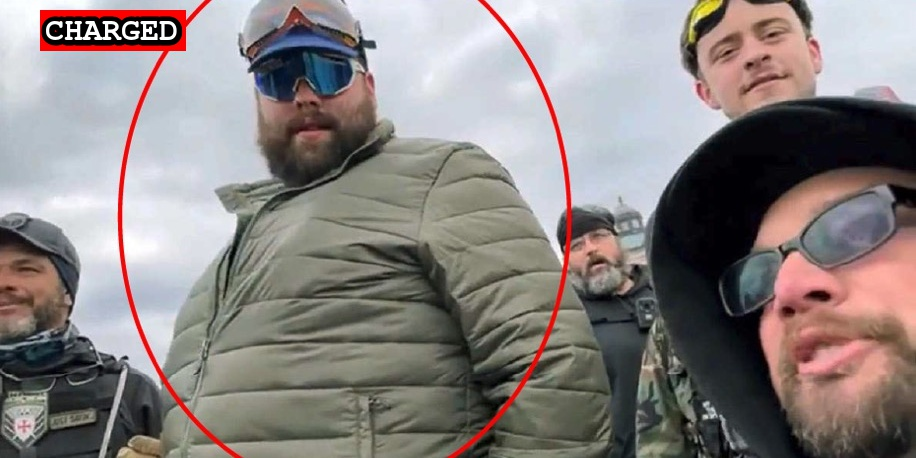
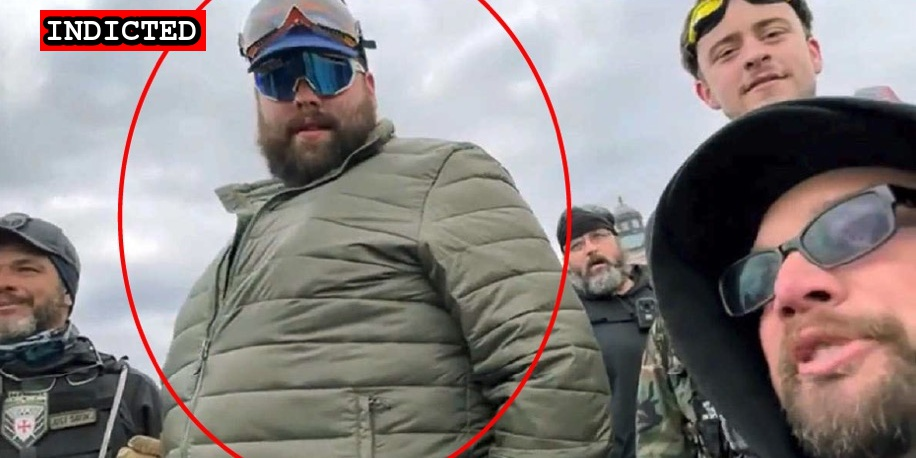
Milkshake indictment

Changed region(s): [[0.0306, 0.0, 0.2445, 0.1223]]

diff --git a/docs/_suspects/daniel-scott.md b/docs/_suspects/daniel-scott.md
@@ -3,13 +3,13 @@ name: Daniel Scott
 lastName: Scott
 aka: Milkshake
 residence: Florida
-status: Charged
+status: Indicted
 date: 2021-05-20
 charged: 2021-05-20
-indicted:
-convicted: 
-sentenced: 
-dismissed: 
+indicted: 2021-05-25
+convicted:
+sentenced:
+dismissed:
 deceased:
 age: 28
 occupation:
@@ -30,5 +30,7 @@ layout: suspect
 published: true
 caseNumber: 1:21-mj-411
 ---
+
 - [News Report](https://www.washingtonpost.com/local/legal-issues/proudboy-screaming-lets-take-capitol-arrested/2021/05/20/ccae5e00-b9a7-11eb-a6b1-81296da0339b_story.html)
 - [Statement of Facts](https://www.justice.gov/usao-dc/case-multi-defendant/file/1395876/download)
+- [Indictment](https://extremism.gwu.edu/sites/g/files/zaxdzs2191/f/Daniel%20Lyons%20Scott%20Indictment.pdf)

diff --git a/docs/_suspects/luke-bender.md b/docs/_suspects/luke-bender.md
@@ -1,0 +1,35 @@
+---
+name: Luke Bender
+lastName: Bender
+aka:
+residence: Virginia
+status: Charged
+date: 2021-07-26
+charged: 2021-07-26
+indicted:
+convicted:
+sentenced:
+dismissed:
+deceased:
+age:
+occupation:
+affiliations:
+jurisdiction: Federal
+image: /images/preview/luke-bender.jpg
+suspect: luke-bender.jpg
+booking:
+courtroom:
+courthouse:
+raid:
+perpwalk:
+quote:
+title: Luke Bender charged on July 26, 2021
+description: Click for latest case details. Suspects innocent until proven guilty.
+author: seditiontrack
+layout: suspect
+published: false
+caseNumber:
+---
+
+- [News Report]()
+- [Statement of Facts](https://extremism.gwu.edu/sites/g/files/zaxdzs2191/f/Luke%20Wessley%20Bender%20Statement%20of%20Facts.pdf)
